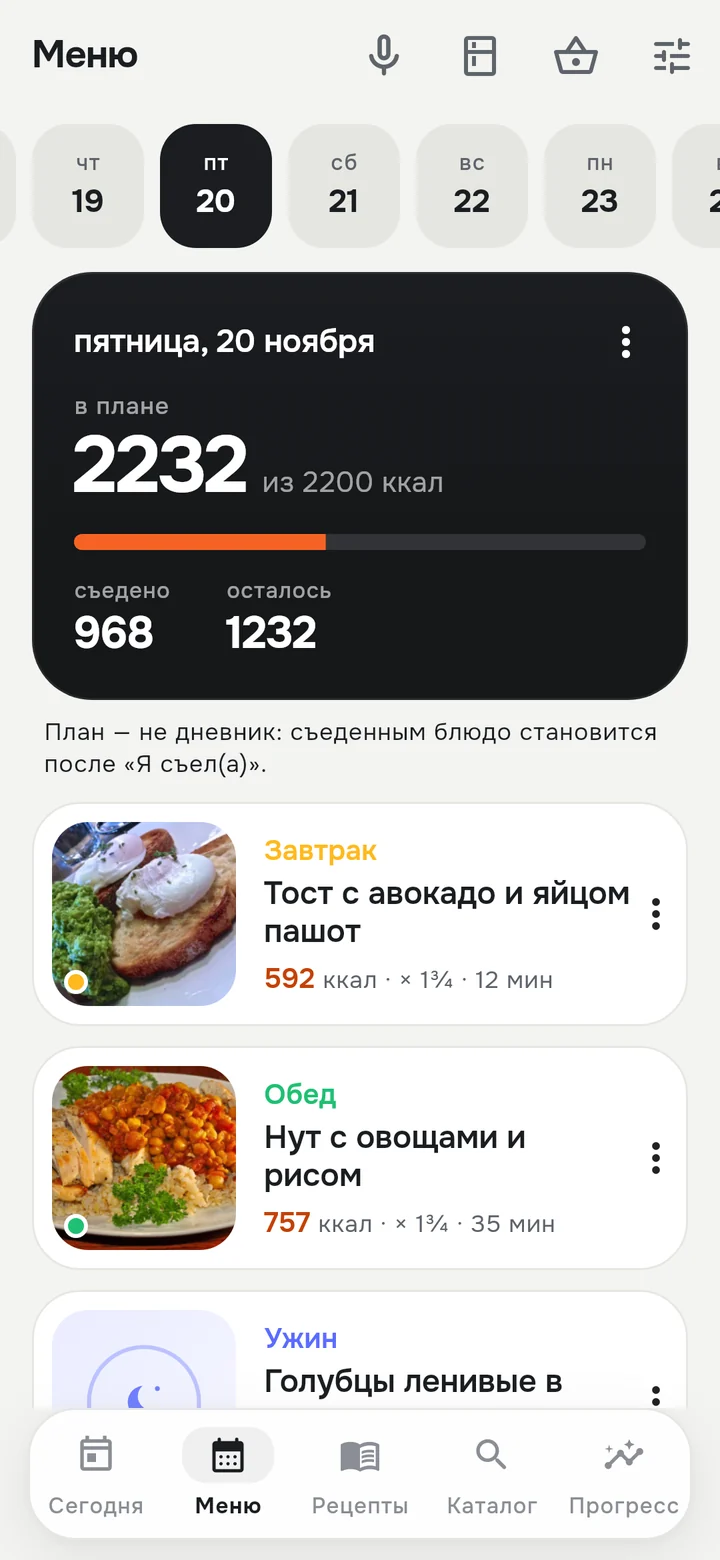
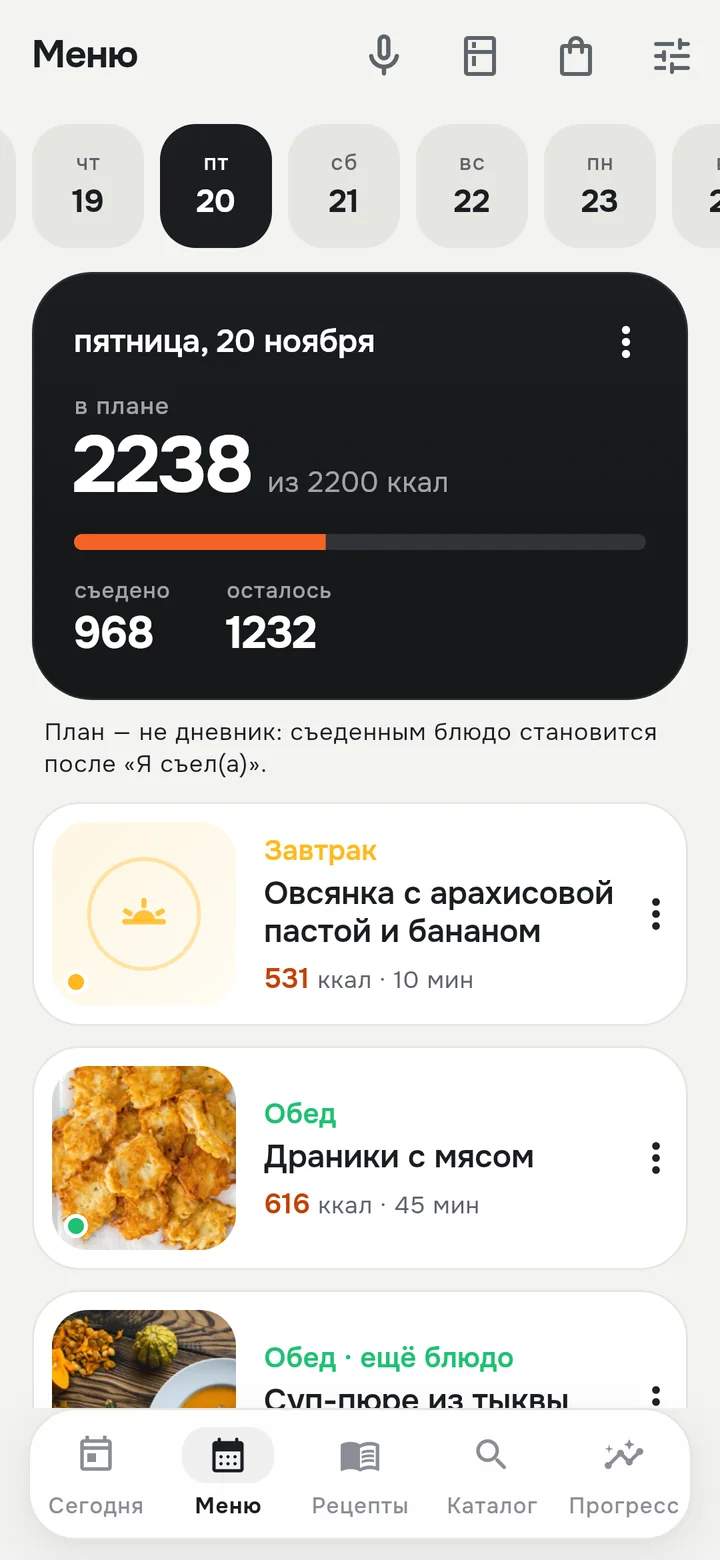
Сайт 0.24.0: раздел «Что приготовить?», меню по порциям и «Готовлю на семью», свежие экраны меню и покупок
Claude-Session: https://claude.ai/code/session_01JKDxRTKabQ4jgJoG6e5K5w

diff --git a/index.html b/index.html
@@ -354,7 +354,7 @@ footer a{color:#fff}
 <section class="hero c-honey">
   <div class="wrap grid">
     <div>
-      <a class="news rv" href="#more"><b>Новое</b>Версия 0.24.0: «Что приготовить?» и меню по порциям</a>
+      <a class="news rv" href="#cook"><b>Новое</b>Версия 0.24.0: «Что приготовить?» и меню по порциям</a>
       <h1 class="rv">Чек, пожалуйста.</h1>
       <p class="lead rv">Ложка — дневник питания, где у каждой калории есть чек: продукт, граммы и откуда взялась цифра. Найдите блюдо, отсканируйте штрихкод или скажите вслух.</p>
       <div class="cta rv">
@@ -508,19 +508,39 @@ footer a{color:#fff}
   </div>
 </section>
 
+<section class="pad c-ember" id="cook">
+  <div class="wrap menu">
+    <div>
+      <span class="rubric">Новое в 0.24.0</span>
+      <h2>Что приготовить?</h2>
+      <p class="lead" style="margin-top:22px">Ложка выберет блюдо из своих рецептов — для всей семьи, детям, к ужину, на скорую руку или из того, что уже есть дома.</p>
+      <ul class="list">
+        <li><i style="background:var(--honey)"><svg class="ico" viewBox="0 0 24 24" fill="none" stroke="currentColor" stroke-width="2" stroke-linecap="round" stroke-linejoin="round" aria-hidden="true"><path d="M7 7h12l-3-3M17 17H5l3 3"/></svg></i><div><b>Одно касание — одно блюдо</b>Не то — «Ещё вариант», повторов нет. «Не предлагать» убирает блюдо, «Понравилось» — чаще.</div></li>
+        <li><i style="background:#fff"><svg class="ico" viewBox="0 0 24 24" fill="none" stroke="currentColor" stroke-width="2" stroke-linecap="round" stroke-linejoin="round" aria-hidden="true"><path d="M3.5 4.5h2.2l2.1 10.5h10.4l1.8-7.5H7"/><circle cx="9.5" cy="19" r="1.4"/><circle cx="17" cy="19" r="1.4"/></svg></i><div><b>В покупки — только недостающее</b>Что отмечено в «Кладовой», в список не попадёт.</div></li>
+        <li><i style="background:var(--leaf)"><svg class="ico" viewBox="0 0 24 24" fill="none" stroke="currentColor" stroke-width="2" stroke-linecap="round" stroke-linejoin="round" aria-hidden="true"><path d="M5 12.5l4.5 4.5L19 7.5"/></svg></i><div><b>Ваши аллергены учтены</b>Блюда с ними не выпадают. В дневник и меню ничего не пишется, пока вы сами не нажмёте.</div></li>
+      </ul>
+    </div>
+    <div class="pair">
+      <div class="phone tilt-l"><img src="img/scr/wheel.webp" alt="«Что приготовить?»: режимы «Семье», «Детям», «Семейный ужин», «Быстрое», «Из того, что есть» и выбранное блюдо" width="720" height="1560" loading="lazy"></div>
+      <div class="phone tilt-r"><img src="img/scr/wheel-result.webp" alt="Карточка блюда «Перец фаршированный»: время, ингредиенты, аллергены, кнопки «Открыть рецепт», «В покупки», «В моё меню»" width="720" height="1560" loading="lazy"></div>
+    </div>
+  </div>
+</section>
+
 <section class="pad c-dusk" id="menu">
   <div class="wrap menu">
     <div>
       <h2>Меню и покупки — на неделю вперёд</h2>
       <ul class="list">
-        <li><i style="background:var(--honey)"><svg class="ico" viewBox="0 0 24 24" fill="none" stroke="currentColor" stroke-width="2" stroke-linecap="round" stroke-linejoin="round" aria-hidden="true"><rect x="4" y="5" width="16" height="15" rx="2.5"/><path d="M8 3v4M16 3v4M4 10h16"/></svg></i><div><b>Меню на неделю, месяц или год</b>Под вашу норму калорий. Без рыбы или мяса, постное, проще в будни и сложнее в выходные.</div></li>
+        <li><i style="background:var(--honey)"><svg class="ico" viewBox="0 0 24 24" fill="none" stroke="currentColor" stroke-width="2" stroke-linecap="round" stroke-linejoin="round" aria-hidden="true"><rect x="4" y="5" width="16" height="15" rx="2.5"/><path d="M8 3v4M16 3v4M4 10h16"/></svg></i><div><b>Меню на неделю, месяц, год или бессрочно</b>Одна обычная порция на человека. Если её мало до вашего ориентира — второе блюдо к приёму, а не двойная тарелка. Без рыбы или мяса, постное, проще в будни.</div></li>
+        <li><i style="background:var(--ember)"><svg class="ico" viewBox="0 0 24 24" fill="none" stroke="currentColor" stroke-width="2" stroke-linecap="round" stroke-linejoin="round" aria-hidden="true"><path d="M5 12.5l4.5 4.5L19 7.5"/></svg></i><div><b>Готовлю на семью</b>Покупки — на всю кастрюлю, в дневник — только ваша порция. Остаток можно поставить на завтра, докупать ничего не придётся.</div></li>
         <li><i style="background:var(--leaf)"><svg class="ico" viewBox="0 0 24 24" fill="none" stroke="currentColor" stroke-width="2" stroke-linecap="round" stroke-linejoin="round" aria-hidden="true"><path d="M7 7h12l-3-3M17 17H5l3 3"/></svg></i><div><b>Не нравится блюдо — замените</b>Ложка сразу покажет, как изменятся калории дня.</div></li>
         <li><i style="background:#fff"><svg class="ico" viewBox="0 0 24 24" fill="none" stroke="currentColor" stroke-width="2" stroke-linecap="round" stroke-linejoin="round" aria-hidden="true"><path d="M3.5 4.5h2.2l2.1 10.5h10.4l1.8-7.5H7"/><circle cx="9.5" cy="19" r="1.4"/><circle cx="17" cy="19" r="1.4"/></svg></i><div><b>Список покупок из меню</b>На день или неделю — по блюдам или по отделам магазина.</div></li>
-        <li><i style="background:var(--berry)"><svg class="ico" viewBox="0 0 24 24" fill="none" stroke="currentColor" stroke-width="2" stroke-linecap="round" stroke-linejoin="round" aria-hidden="true"><path d="M5 12.5l4.5 4.5L19 7.5"/></svg></i><div><b>План — не дневник</b>Съеденным блюдо становится, только когда вы нажмёте «Я съел(а)».</div></li>
+        <li><i style="background:var(--berry)"><svg class="ico" viewBox="0 0 24 24" fill="none" stroke="currentColor" stroke-width="2" stroke-linecap="round" stroke-linejoin="round" aria-hidden="true"><path d="M5 12.5l4.5 4.5L19 7.5"/></svg></i><div><b>План — не дневник</b>Съеденным блюдо становится, только когда вы нажмёте «Съел(а)». Уехали или заболели — «Пауза» сдвинет меню, а «Пропустить день» ничего не испортит.</div></li>
       </ul>
     </div>
     <div class="pair">
-      <div class="phone tilt-l"><img src="img/scr/menu.webp" alt="Меню на пятницу: завтрак, обед, ужин и калории дня" width="720" height="1560" loading="lazy"></div>
+      <div class="phone tilt-l"><img src="img/scr/menu.webp" alt="Меню на пятницу: завтрак, обед и второе блюдо к обеду, калории дня" width="720" height="1560" loading="lazy"></div>
       <div class="phone tilt-r"><img src="img/scr/shopping.webp" alt="Список покупок из меню на 7 дней, по блюдам" width="720" height="1560" loading="lazy"></div>
     </div>
   </div>
